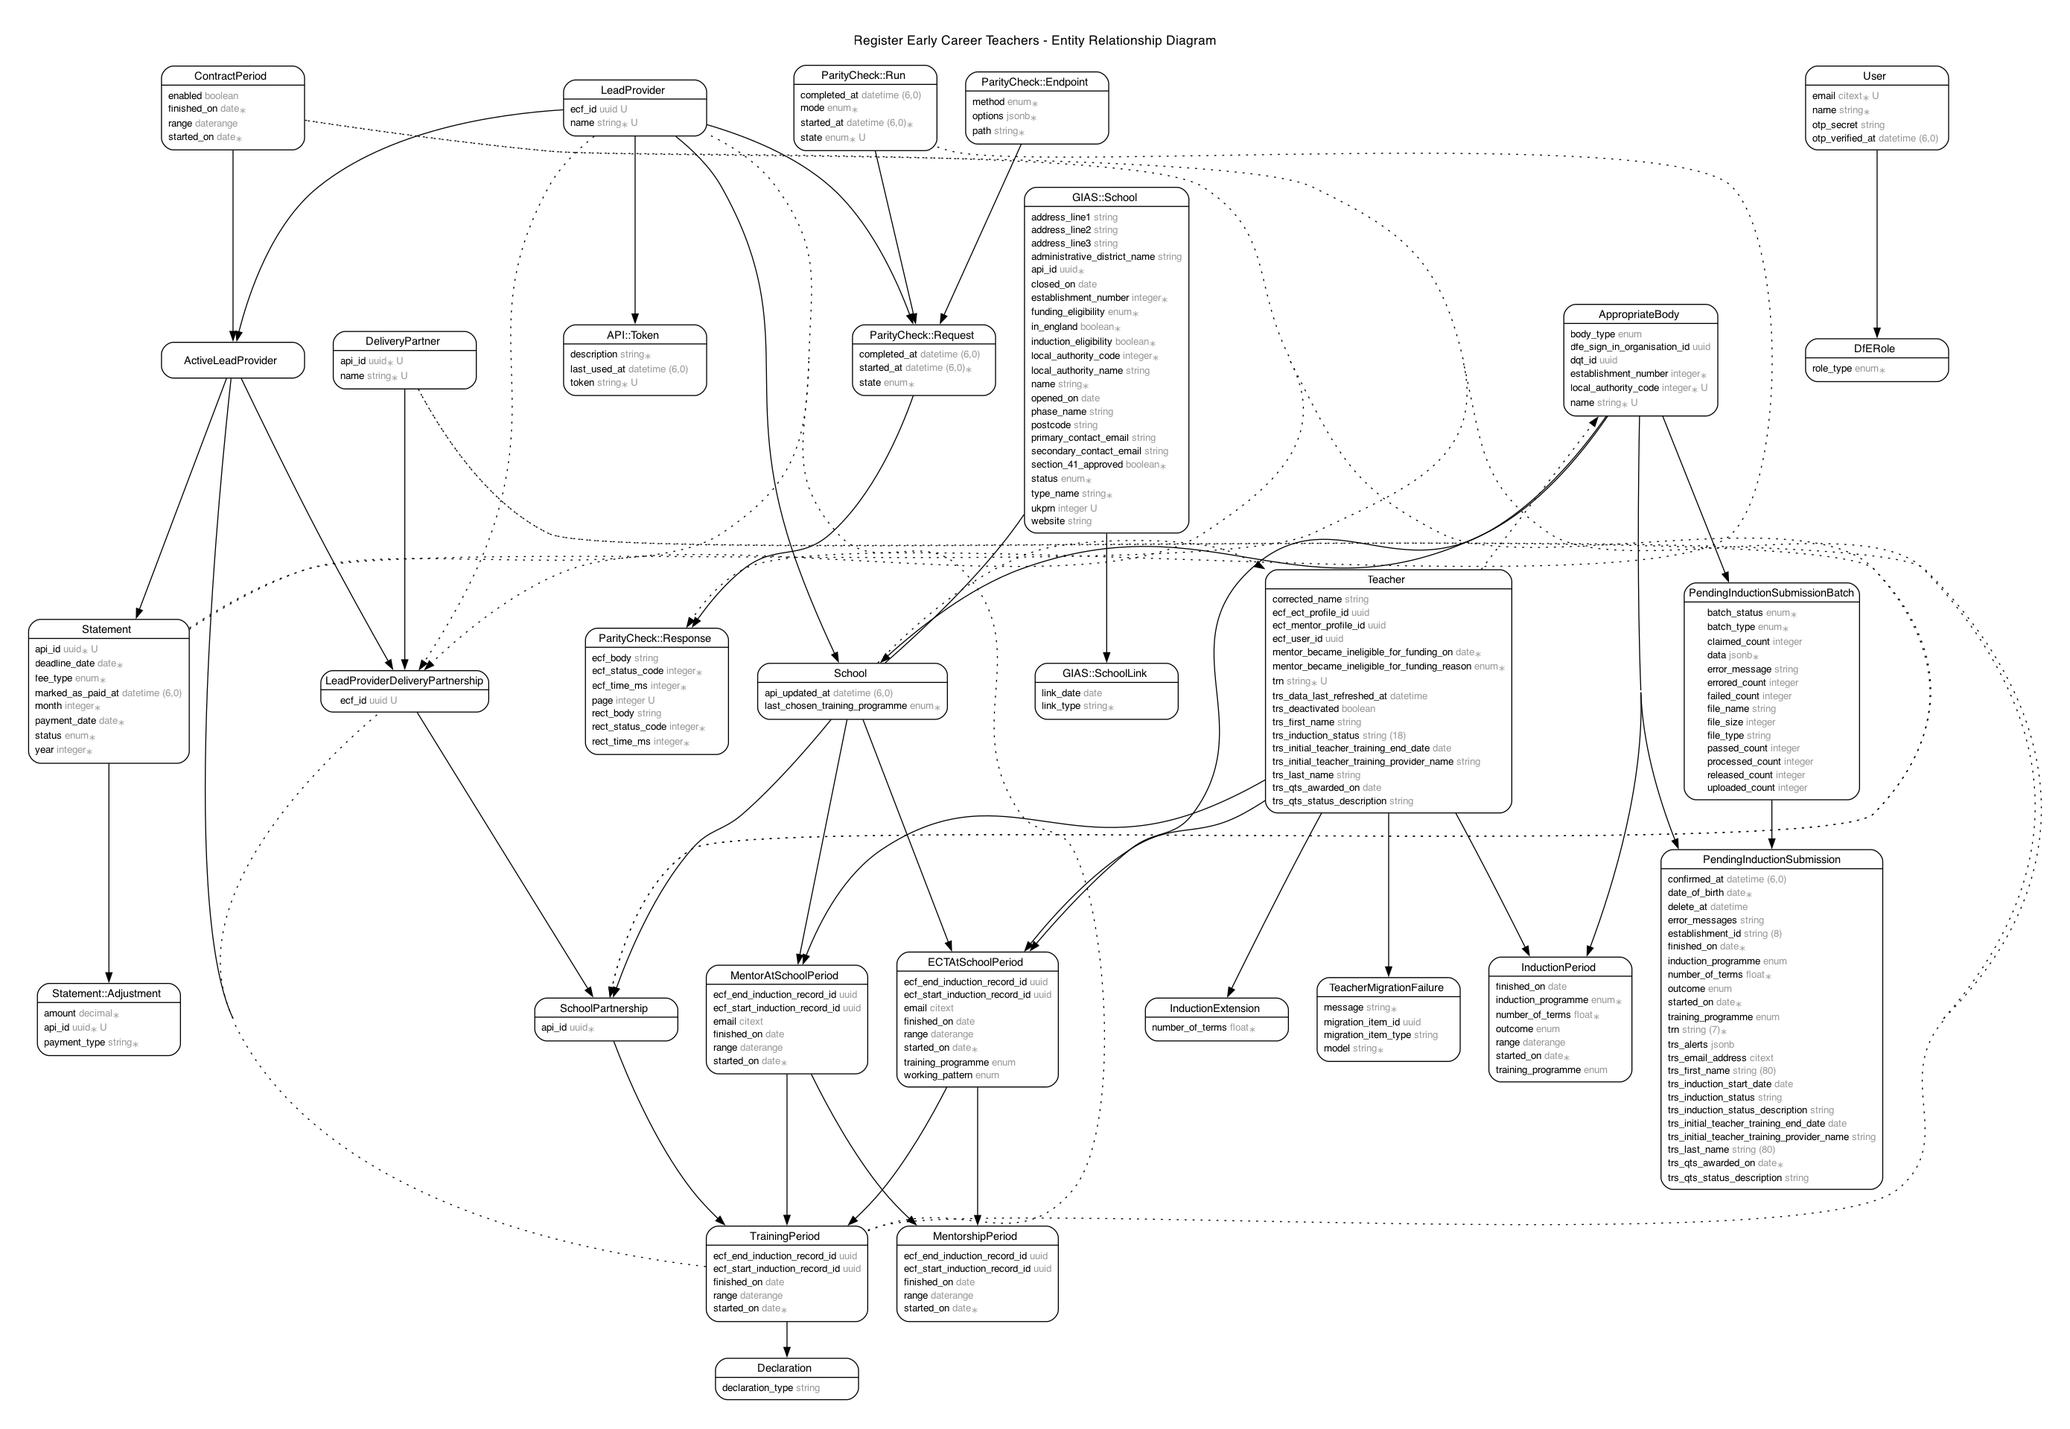
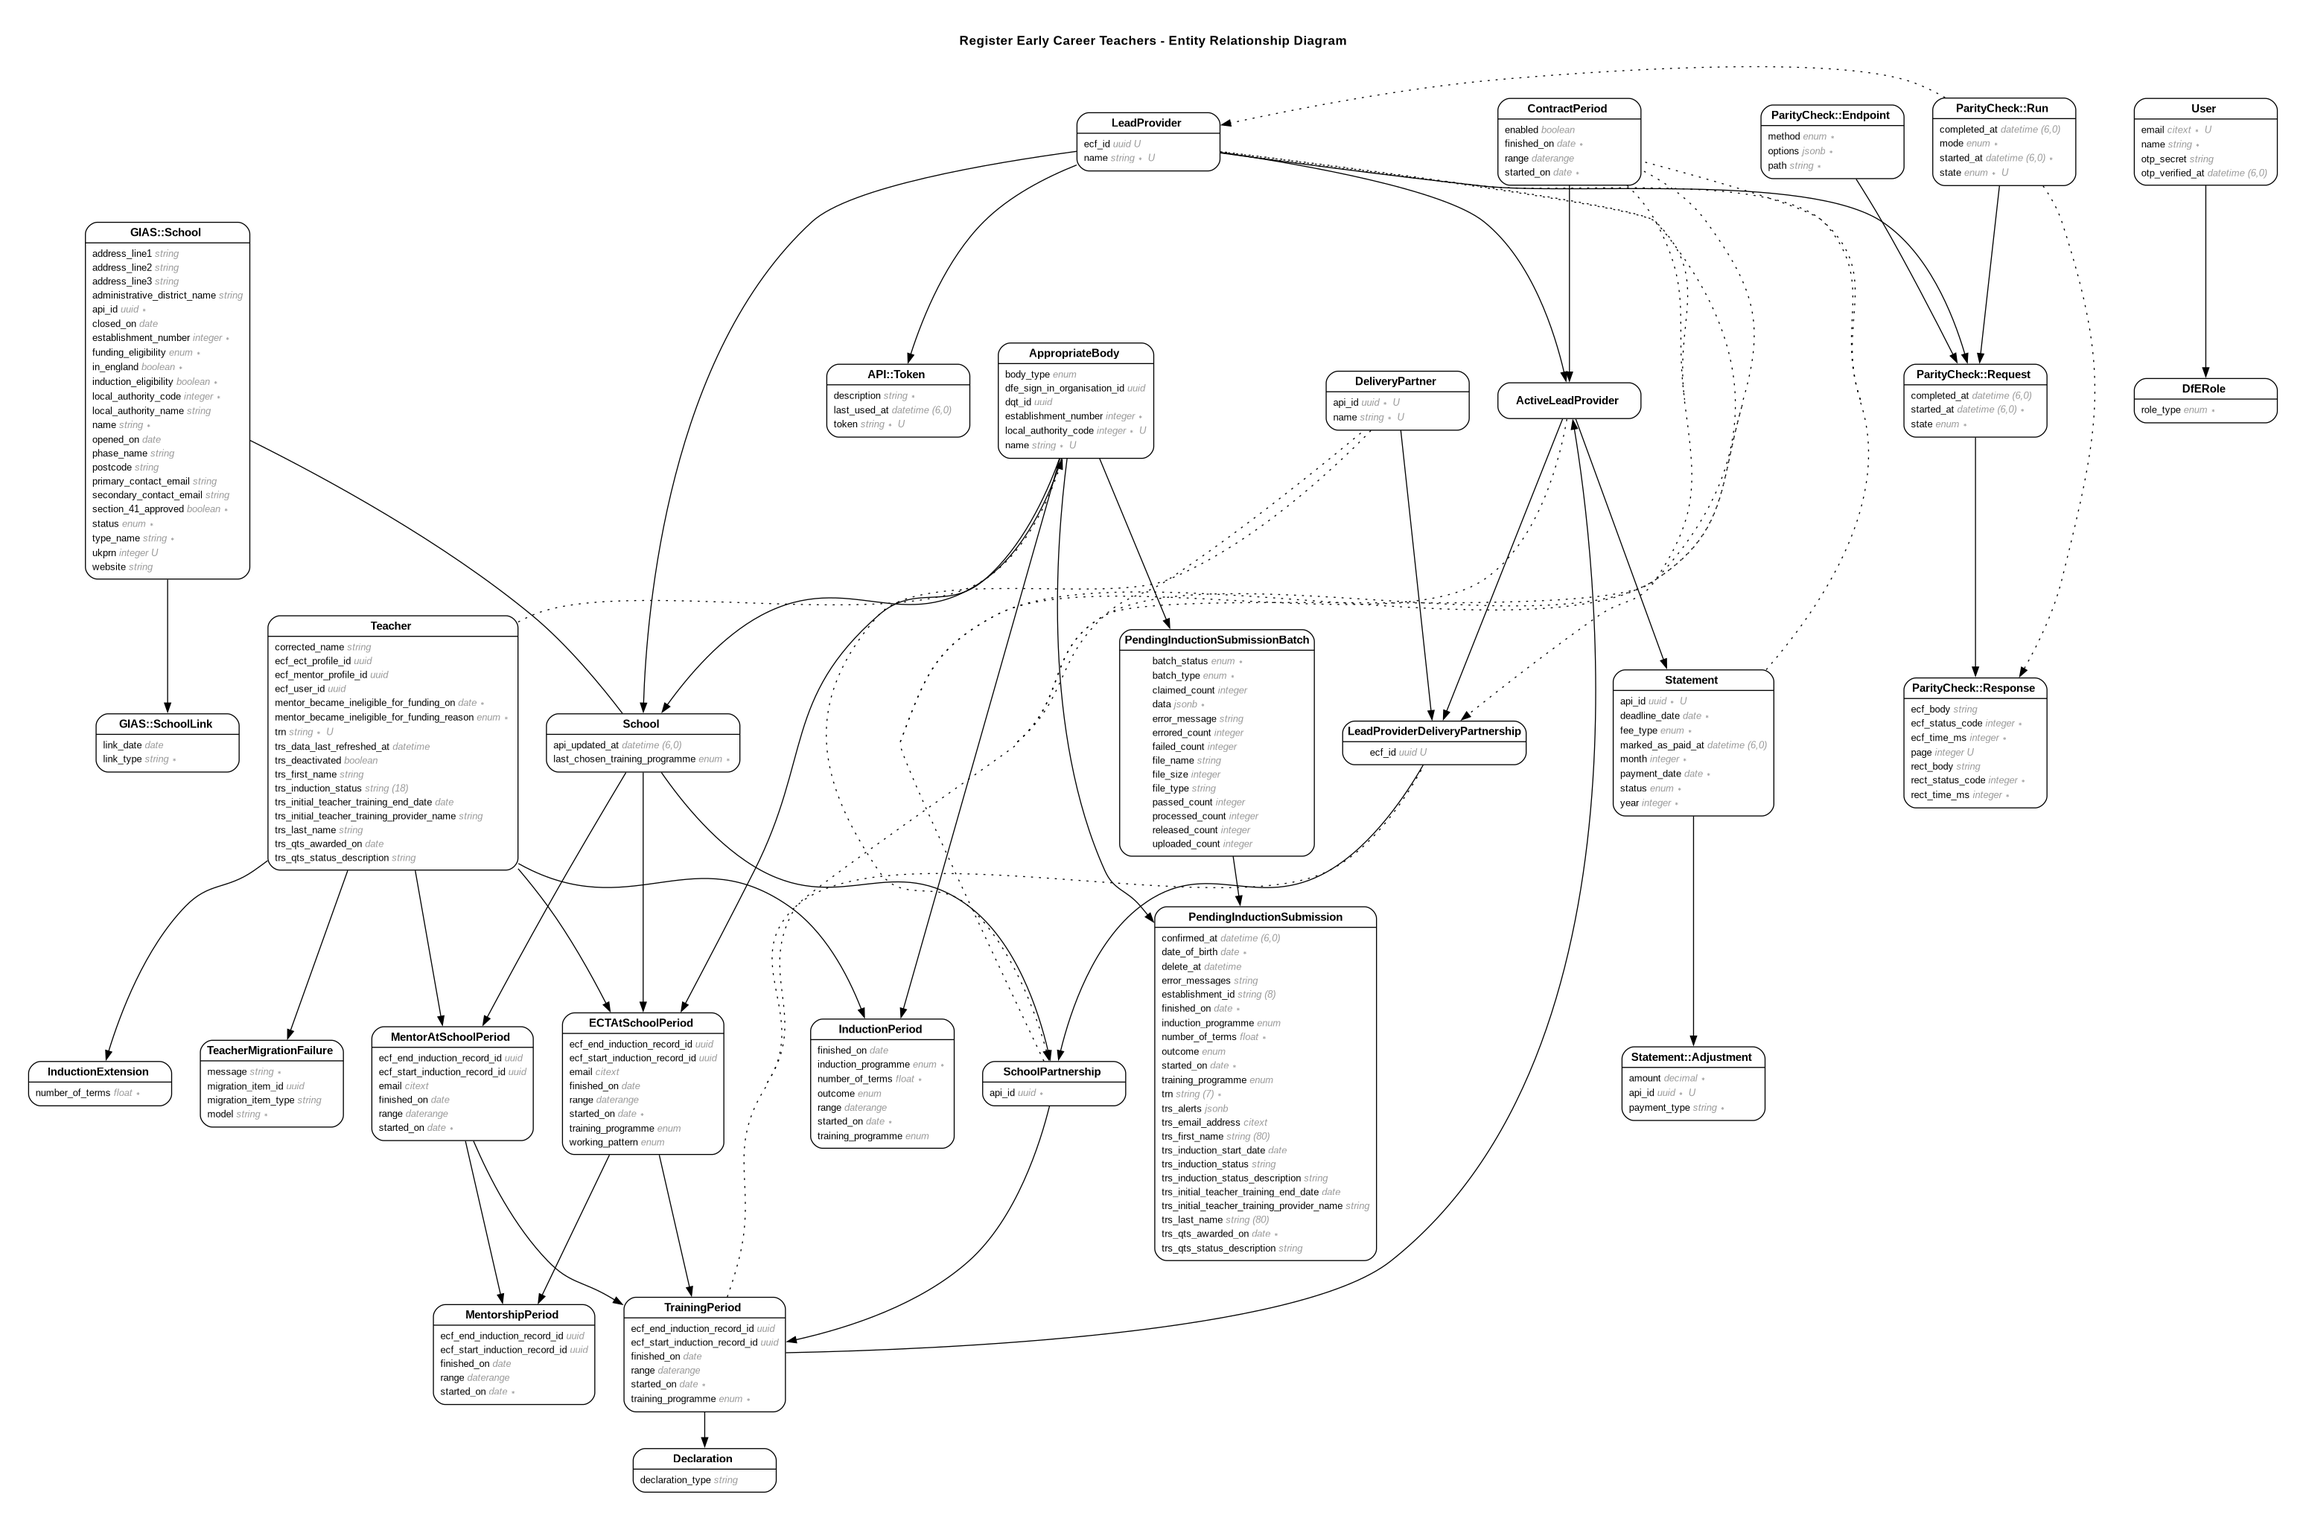
Add training_programme field to training_periods
This is the first step in moving training_programme from
ect_at_school_periods to training_periods.

diff --git a/db/seeds/teacher_histories.rb b/db/seeds/teacher_histories.rb
@@ -153,7 +153,8 @@ TrainingPeriod.create!(
   started_on: 3.years.ago,
   finished_on: 140.weeks.ago,
   expression_of_interest: ambitious_artisan_2022,
-  school_partnership: ambitious_artisan_partnership_2022
+  school_partnership: ambitious_artisan_partnership_2022,
+  training_programme: 'provider_led'
 ).tap { |tp| describe_training_period(tp) }
 
 # 10 week break
@@ -162,7 +163,8 @@ TrainingPeriod.create!(
   mentor_at_school_period: emma_thompson_mentoring_at_abbey_grove,
   started_on: 130.weeks.ago,
   finished_on: nil,
-  school_partnership: ambitious_artisan_partnership_2022
+  school_partnership: ambitious_artisan_partnership_2022,
+  training_programme: 'provider_led'
 ).tap { |tp| describe_training_period(tp) }
 
 print_seed_info("Kate Winslet (ECT)", indent: 2, colour: ECT_COLOUR)
@@ -182,7 +184,8 @@ TrainingPeriod.create!(
   ect_at_school_period: kate_winslet_ect_at_ackley_bridge,
   started_on: 1.year.ago,
   expression_of_interest: ambitious_artisan_2023,
-  school_partnership: ambitious_artisan_partnership_2023
+  school_partnership: ambitious_artisan_partnership_2023,
+  training_programme: 'school_led'
 ).tap { |tp| describe_training_period(tp) }
 
 InductionPeriod.create!(
@@ -192,7 +195,7 @@ InductionPeriod.create!(
   number_of_terms: 3,
   appropriate_body: golden_leaf_teaching_school_hub,
   induction_programme: 'fip',
-  training_programme: 'provider_led'
+  training_programme: 'school_led'
 ).tap { |ip| describe_induction_period(ip) }
 
 InductionPeriod.create!(
@@ -200,7 +203,7 @@ InductionPeriod.create!(
   started_on: 1.year.ago,
   appropriate_body: umber_teaching_school_hub,
   induction_programme: 'fip',
-  training_programme: 'provider_led'
+  training_programme: 'school_led'
 ).tap { |ip| describe_induction_period(ip) }
 
 print_seed_info("Hugh Laurie (mentor)", indent: 2, colour: MENTOR_COLOUR)
@@ -217,7 +220,8 @@ TrainingPeriod.create!(
   mentor_at_school_period: hugh_laurie_mentoring_at_abbey_grove,
   started_on: 2.years.ago,
   expression_of_interest: teach_fast_grain_2022,
-  school_partnership: teach_fast_grain_partnership_2022
+  school_partnership: teach_fast_grain_partnership_2022,
+  training_programme: 'provider_led'
 ).tap { |tp| describe_training_period(tp) }
 
 print_seed_info("Alan Rickman (ECT)", indent: 2, colour: ECT_COLOUR)
@@ -240,7 +244,8 @@ ackley_bridge.update!(last_chosen_lead_provider: better_practice_network,
 TrainingPeriod.create!(
   ect_at_school_period: alan_rickman_ect_at_ackley_bridge,
   started_on: 2.years.ago + 1.month,
-  school_partnership: teach_fast_grain_partnership_2022
+  school_partnership: teach_fast_grain_partnership_2022,
+  training_programme: 'provider_led'
 ).tap { |tp| describe_training_period(tp) }
 
 InductionPeriod.create!(
@@ -285,7 +290,8 @@ TrainingPeriod.create!(
   started_on: 2.years.ago,
   finished_on: 1.week.ago,
   expression_of_interest: ambitious_artisan_2022,
-  school_partnership: ambitious_artisan_partnership_2022
+  school_partnership: ambitious_artisan_partnership_2022,
+  training_programme: 'school_led'
 ).tap { |tp| describe_training_period(tp) }
 
 InductionPeriod.create!(
@@ -318,7 +324,7 @@ colin_firth_ect_at_abbey_grove = ECTAtSchoolPeriod.create!(
   started_on: 2.years.ago,
   school_reported_appropriate_body: golden_leaf_teaching_school_hub,
   working_pattern: 'full_time',
-  training_programme: 'school_led'
+  training_programme: 'provider_led'
 ).tap { |sp| describe_ect_at_school_period(sp) }
 
 abbey_grove_school.update!(last_chosen_lead_provider: nil,
@@ -329,7 +335,8 @@ TrainingPeriod.create!(
   ect_at_school_period: colin_firth_ect_at_abbey_grove,
   started_on: 2.years.ago,
   finished_on: 1.week.ago,
-  school_partnership: ambitious_artisan_partnership_2022
+  school_partnership: ambitious_artisan_partnership_2022,
+  training_programme: 'provider_led'
 ).tap { |tp| describe_training_period(tp) }
 
 InductionPeriod.create!(
@@ -418,7 +425,8 @@ imogen_stubbs_at_malory_towers = ECTAtSchoolPeriod.create!(
 TrainingPeriod.create!(
   ect_at_school_period: imogen_stubbs_at_malory_towers,
   started_on: 1.year.ago,
-  school_partnership: teach_fast_grain_partnership_2022
+  school_partnership: teach_fast_grain_partnership_2022,
+  training_programme: 'school_led'
 ).tap { |tp| describe_training_period(tp) }
 
 InductionExtension.create!(
@@ -455,7 +463,8 @@ mallory_towers.update!(last_chosen_lead_provider: better_practice_network,
 TrainingPeriod.create!(
   ect_at_school_period: gemma_jones_at_malory_towers,
   started_on: 20.months.ago,
-  school_partnership: teach_fast_grain_partnership_2022
+  school_partnership: teach_fast_grain_partnership_2022,
+  training_programme: 'provider_led'
 ).tap { |tp| describe_training_period(tp) }
 
 InductionExtension.create!(
@@ -476,7 +485,8 @@ andre_roussimoff_mentoring_at_ackley_bridge = MentorAtSchoolPeriod.create!(
 TrainingPeriod.create!(
   mentor_at_school_period: andre_roussimoff_mentoring_at_ackley_bridge,
   started_on: 1.year.ago,
-  school_partnership: teach_fast_grain_partnership_2022
+  school_partnership: teach_fast_grain_partnership_2022,
+  training_programme: 'provider_led'
 ).tap { |tp| describe_training_period(tp) }
 
 print_seed_info("Anthony Hopkins (ECT)", indent: 2, colour: ECT_COLOUR)
@@ -495,7 +505,8 @@ anthony_hopkins_ect_at_brookfield_school = ECTAtSchoolPeriod.create!(
 TrainingPeriod.create!(
   ect_at_school_period: anthony_hopkins_ect_at_brookfield_school,
   started_on: 2.years.ago,
-  school_partnership: teach_fast_grain_partnership_2022
+  school_partnership: teach_fast_grain_partnership_2022,
+  training_programme: 'provider_led'
 ).tap { |tp| describe_training_period(tp) }
 
 print_seed_info("Stephen Fry (ECT)", indent: 2, colour: ECT_COLOUR)
@@ -518,7 +529,8 @@ brookfield_school.update!(last_chosen_lead_provider: teach_fast,
 TrainingPeriod.create!(
   ect_at_school_period: stephen_fry_ect_at_brookfield_school,
   started_on: 2.years.ago,
-  school_partnership: teach_fast_grain_partnership_2022
+  school_partnership: teach_fast_grain_partnership_2022,
+  training_programme: 'provider_led'
 ).tap { |tp| describe_training_period(tp) }
 
 print_seed_info("Harriet Walter (ECT) with multiple induction periods", indent: 2, colour: ECT_COLOUR)
@@ -535,7 +547,8 @@ harriet_walter_ect_at_brookfield_school = ECTAtSchoolPeriod.create!(
 TrainingPeriod.create!(
   ect_at_school_period: harriet_walter_ect_at_brookfield_school,
   started_on: 2.years.ago,
-  school_partnership: teach_fast_grain_partnership_2022
+  school_partnership: teach_fast_grain_partnership_2022,
+  training_programme: 'provider_led'
 ).tap { |tp| describe_training_period(tp) }
 
 print_seed_info("Helen Mirren (mentor)", indent: 2, colour: MENTOR_COLOUR)
@@ -551,7 +564,8 @@ helen_mirren_mentoring_at_brookfield_school = MentorAtSchoolPeriod.create!(
 TrainingPeriod.create!(
   mentor_at_school_period: helen_mirren_mentoring_at_brookfield_school,
   started_on: 2.years.ago,
-  school_partnership: teach_fast_grain_partnership_2022
+  school_partnership: teach_fast_grain_partnership_2022,
+  training_programme: 'provider_led'
 ).tap { |tp| describe_training_period(tp) }
 
 print_seed_info("John Withers (mentor)", indent: 2, colour: MENTOR_COLOUR)
@@ -567,7 +581,8 @@ john_withers_mentoring_at_abbey_grove = MentorAtSchoolPeriod.create!(
 TrainingPeriod.create!(
   mentor_at_school_period: john_withers_mentoring_at_abbey_grove,
   started_on: 2.years.ago,
-  school_partnership: teach_fast_grain_partnership_2022
+  school_partnership: teach_fast_grain_partnership_2022,
+  training_programme: 'provider_led'
 ).tap { |tp| describe_training_period(tp) }
 
 print_seed_info("Dominic West (ECT)", indent: 2, colour: ECT_COLOUR)
@@ -585,7 +600,8 @@ dominic_west_ect_at_brookfield_school = ECTAtSchoolPeriod.create!(
 TrainingPeriod.create!(
   ect_at_school_period: dominic_west_ect_at_brookfield_school,
   started_on: 18.months.ago,
-  expression_of_interest: ambitious_artisan_2023
+  expression_of_interest: ambitious_artisan_2023,
+  training_programme: 'provider_led'
 ).tap { |tp| describe_training_period(tp) }
 
 print_seed_info("Adding mentorships:")

diff --git a/spec/models/training_period_spec.rb b/spec/models/training_period_spec.rb
@@ -17,6 +17,17 @@ describe TrainingPeriod do
     it_behaves_like "a declarative touch model", on_event: %i[update], when_changing: %i[expression_of_interest_id], timestamp_attribute: :api_updated_at, target_optional: false
   end
 
+  describe "enums" do
+    it "uses the training programme enum" do
+      is_expected.to define_enum_for(:training_programme)
+                       .with_values({ provider_led: "provider_led",
+                                      school_led: "school_led" })
+                       .validating
+                       .with_suffix(:training_programme)
+                       .backed_by_column_of_type(:enum)
+    end
+  end
+
   describe "associations" do
     it { is_expected.to belong_to(:ect_at_school_period).class_name("ECTAtSchoolPeriod").inverse_of(:training_periods) }
     it { is_expected.to belong_to(:mentor_at_school_period).inverse_of(:training_periods) }
@@ -62,31 +73,41 @@ describe TrainingPeriod do
       let(:dates) { { started_on: 3.years.ago.to_date, finished_on: nil } }
       let(:ect_at_school_period) { FactoryBot.create(:ect_at_school_period, **dates) }
 
-      context 'when neither the expression of interest or school partnership is present' do
-        subject { FactoryBot.build(:training_period, ect_at_school_period:, expression_of_interest: nil, school_partnership: nil, **dates) }
+      context 'when provider-led' do
+        subject { FactoryBot.build(:training_period, :provider_led, ect_at_school_period:, expression_of_interest: nil, school_partnership: nil, **dates) }
 
-        it 'has a base error stating either expression of interest or school partnership required' do
-          subject.valid?
-          expect(subject.errors.messages[:base]).to include('Either expression of interest or school partnership required')
+        context 'when neither the expression of interest or school partnership is present' do
+          it 'has a base error stating either expression of interest or school partnership required' do
+            subject.valid?
+            expect(subject.errors.messages[:base]).to include('Either expression of interest or school partnership required')
+          end
+        end
+
+        context 'when just the expression of interest is present' do
+          subject { FactoryBot.create(:training_period, :with_expression_of_interest, ect_at_school_period:, **dates) }
+
+          it { is_expected.to(be_valid) }
+        end
+
+        context 'when just the school partnership is present' do
+          subject { FactoryBot.create(:training_period, :with_school_partnership, ect_at_school_period:, **dates) }
+
+          it { is_expected.to(be_valid) }
+        end
+
+        context 'when both the expression of interest and school partnership are present' do
+          subject { FactoryBot.create(:training_period, :with_school_partnership, :with_expression_of_interest, ect_at_school_period:, **dates) }
+
+          it { is_expected.to(be_valid) }
         end
       end
 
-      context 'when just the expression of interest is present' do
-        subject { FactoryBot.create(:training_period, :with_expression_of_interest, ect_at_school_period:, **dates) }
+      context 'when school-led' do
+        subject { FactoryBot.build(:training_period, :school_led, ect_at_school_period:, expression_of_interest: nil, school_partnership: nil, **dates) }
 
-        it { is_expected.to(be_valid) }
-      end
-
-      context 'when just the school partnership is present' do
-        subject { FactoryBot.create(:training_period, :with_school_partnership, ect_at_school_period:, **dates) }
-
-        it { is_expected.to(be_valid) }
-      end
-
-      context 'when both the expression of interest and school partnership are present' do
-        subject { FactoryBot.create(:training_period, :with_school_partnership, :with_expression_of_interest, ect_at_school_period:, **dates) }
-
-        it { is_expected.to(be_valid) }
+        it 'allows nil expression of interest and training period' do
+          is_expected.to(be_valid)
+        end
       end
     end
 

diff --git a/db/schema.rb b/db/schema.rb
@@ -10,7 +10,7 @@
 #
 # It's strongly recommended that you check this file into your version control system.
 
-ActiveRecord::Schema[8.0].define(version: 2025_07_16_140403) do
+ActiveRecord::Schema[8.0].define(version: 2025_07_19_173448) do
   # These are extensions that must be enabled in order to support this database
   enable_extension "citext"
   enable_extension "pg_catalog.plpgsql"
@@ -705,6 +705,7 @@ ActiveRecord::Schema[8.0].define(version: 2025_07_16_140403) do
     t.uuid "ecf_start_induction_record_id"
     t.uuid "ecf_end_induction_record_id"
     t.bigint "expression_of_interest_id"
+    t.enum "training_programme", null: false, enum_type: "training_programme"
     t.index "ect_at_school_period_id, mentor_at_school_period_id, ((finished_on IS NULL))", name: "idx_on_ect_at_school_period_id_mentor_at_school_per_42bce3bf48", unique: true, where: "(finished_on IS NULL)"
     t.index ["ect_at_school_period_id", "mentor_at_school_period_id", "started_on"], name: "idx_on_ect_at_school_period_id_mentor_at_school_per_70f2bb1a45", unique: true
     t.index ["ect_at_school_period_id"], name: "index_training_periods_on_ect_at_school_period_id"

diff --git a/app/models/training_period.rb b/app/models/training_period.rb
@@ -2,6 +2,13 @@ class TrainingPeriod < ApplicationRecord
   include Interval
   include DeclarativeTouch
 
+  # Enums
+  enum :training_programme,
+       { provider_led: "provider_led",
+         school_led: "school_led" },
+       validate: { message: "Must be provider_led or school_led" },
+       suffix: :training_programme
+
   # Associations
   belongs_to :ect_at_school_period, class_name: "ECTAtSchoolPeriod", inverse_of: :training_periods
   belongs_to :mentor_at_school_period, inverse_of: :training_periods
@@ -24,7 +31,7 @@ class TrainingPeriod < ApplicationRecord
             presence: true
 
   validate :one_id_of_trainee_present
-  validate :at_least_expression_of_interest_or_school_partnership_present
+  validate :at_least_expression_of_interest_or_school_partnership_present, if: :provider_led_training_programme?
   validate :trainee_distinct_period
   validate :enveloped_by_trainee_at_school_period
 

diff --git a/db/migrate/20250719173448_add_training_programme_to_training_periods.rb b/db/migrate/20250719173448_add_training_programme_to_training_periods.rb
@@ -1,0 +1,7 @@
+class AddTrainingProgrammeToTrainingPeriods < ActiveRecord::Migration[8.0]
+  def change
+    # rubocop:disable Rails/NotNullColumn
+    add_column :training_periods, :training_programme, :enum, enum_type: 'training_programme', null: false
+    # rubocop:enable Rails/NotNullColumn
+  end
+end
